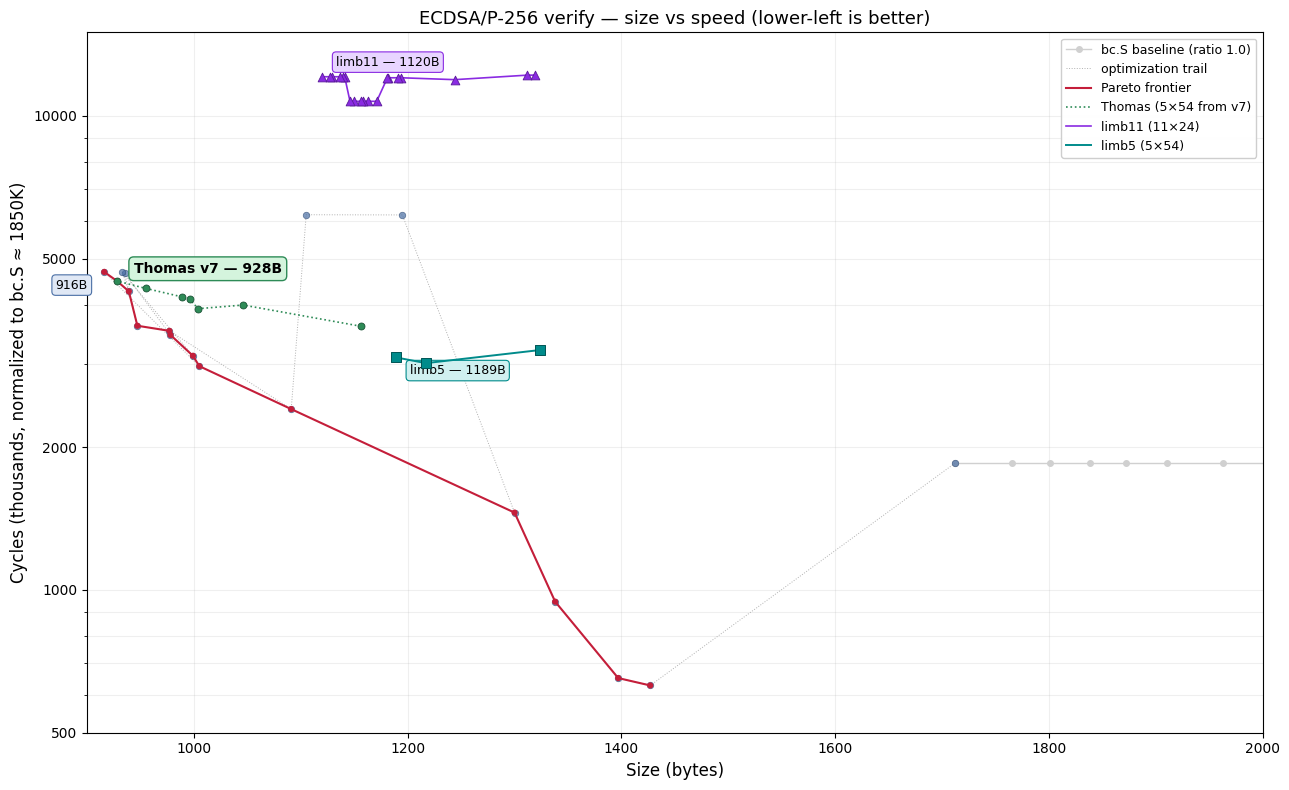
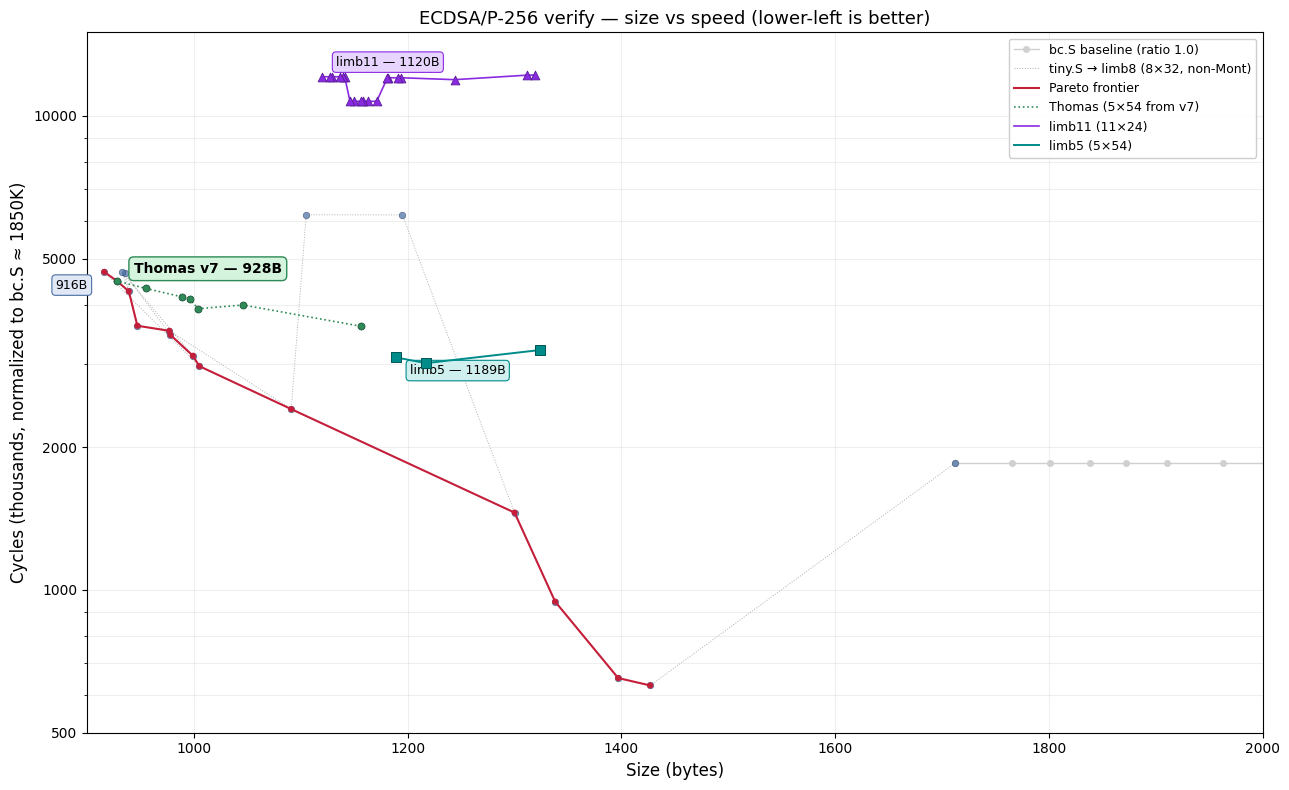
chart: legend label for tiny.S → limb8 track

Changed region(s): [[0.7758, 0.0608, 0.962, 0.2127]]

diff --git a/docs/plot_history.py b/docs/plot_history.py
@@ -211,7 +211,7 @@ on_chart = [(b, c) for b, c, _ in TRAIL_SHOWN if b <= XMAX]
 tx = [p[0] for p in on_chart]
 ty = [p[1] for p in on_chart]
 ax.plot(tx, ty, ':', color='#b0b0b0', linewidth=0.7, zorder=2,
-        label='optimization trail')
+        label='tiny.S → limb8 (8×32, non-Mont)')
 ax.scatter(tx, ty, c='#4a6fa5', s=22, edgecolors='#2a4670',
            linewidths=0.5, zorder=3, alpha=0.7)
 # Tip annotation (limb8's current size).
